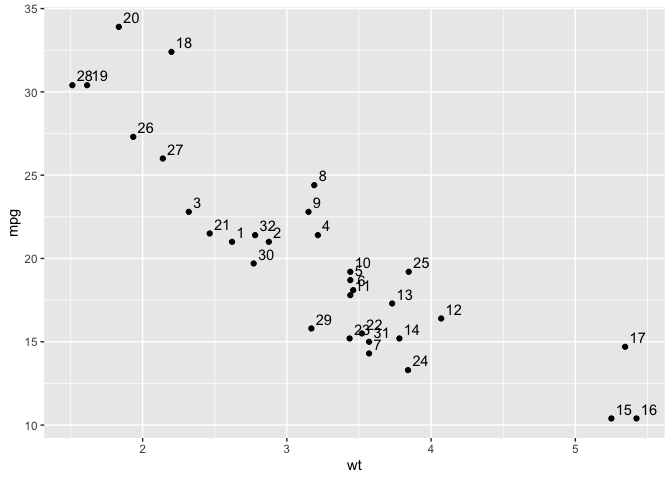
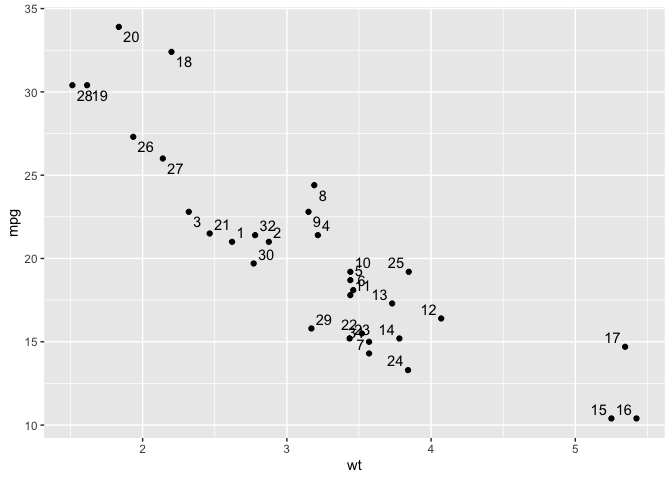
space objects exercise

diff --git a/README.md b/README.md
@@ -140,8 +140,8 @@ StatIndex <- ggplot2::ggproto("StatIndex",
 geom_index <- function(){
   
   layer("label", "index", position = "identity",
-          params = list(label.size = NA, fill = NA, hjust = 0,
-                        vjust = 0))
+          params = list(label.size = NA, fill = NA, hjust = "inward",
+                        vjust = "inward"))
   
 }
 ```
@@ -578,24 +578,158 @@ nhl_player_births <- readr::read_csv('https://raw.githubusercontent.com/rfordata
 
 set.seed(1245)
 nhl_player_births |> 
-  mutate(birth_date_2020 = birth_date %>% str_replace("....", "2000") %>% as_date()) |>
+  mutate(birth_date_2020 = birth_date %>% str_replace("....", "2000") %>% 
+           as_date()) |>
   mutate(first_last = paste(first_name, last_name)) |>
-  arrange(birth_date) |>
+  arrange(birth_date) %>% 
   ggplot() + 
   aes(x = birth_date_2020, 
       y = birth_year) +
-  geom_point(color = "lightgrey") + 
+  geom_point(color = "cadetblue", alpha = .25) + 
   # geom_index() +
   geom_labellink(which_index = 1,
                  label = "Jack Lviolette has the earliest birthday in the dataset: July 27, 1879" |> str_wrap(30),
                  label_direction = 60,
-                 prop_range = .3)
+                 prop_range = .3,
+                 color = "grey10") +
+  geom_labellink(which_index = nrow(nhl_player_births),
+                 label = "Connor Bedard has the most recent birthday in the dataset: July 17, 2005" |> str_wrap(25),
+                 prop_range = .2,
+                 label_direction = -100,
+                 color = "grey10")
 #> Warning in geom_labellink(which_index = 1, label = str_wrap("Jack Lviolette has
 #> the earliest birthday in the dataset: July 27, 1879", : Ignoring unknown
 #> parameters: `label`
+#> Warning in geom_labellink(which_index = nrow(nhl_player_births), label =
+#> str_wrap("Connor Bedard has the most recent birthday in the dataset: July 17,
+#> 2005", : Ignoring unknown parameters: `label`
 ```
 
 ![](README_files/figure-gfm/unnamed-chunk-12-1.png)<!-- -->
+
+``` r
+  
+  
+ggwipe::last_plot_wipe(index = 2) +  
+  ggpointdensity::geom_pointdensity(alpha = .5) + 
+  scale_color_viridis_c()
+```
+
+![](README_files/figure-gfm/unnamed-chunk-12-2.png)<!-- -->
+
+``` r
+outer_space_objects <- readr::read_csv('https://raw.githubusercontent.com/rfordatascience/tidytuesday/master/data/2024/2024-04-23/outer_space_objects.csv')
+#> Rows: 1175 Columns: 4
+#> ── Column specification ────────────────────────────────────────────────────────
+#> Delimiter: ","
+#> chr (2): Entity, Code
+#> dbl (2): Year, num_objects
+#> 
+#> ℹ Use `spec()` to retrieve the full column specification for this data.
+#> ℹ Specify the column types or set `show_col_types = FALSE` to quiet this message.
+
+outer_space_objects %>% 
+  count(Entity, wt = num_objects) %>% 
+  arrange(-n) %>% 
+  pull(Entity) %>% 
+  .[2:7] ->
+top_appearances  # more than 150
+```
+
+``` r
+russia1957lab <- "The first observation in the 'Outerspace objects dataset are two Russian objects in 1957"
+us2023lab <- "The highest recorded number of objects in a year for an entity was 2166 objects from the US in 2023"
+
+outer_space_objects |>
+  arrange(Year) %>% 
+  mutate(Entity_Year = paste(Entity, Year, sep = "-")) %>% 
+  filter(Entity != "World") |> #slice(1107)
+  mutate(entities = ifelse(Entity %in% top_appearances, 
+                           Entity, "other")) |>
+ggplot() + 
+  aes(Year, num_objects, id = Entity_Year) + 
+  geom_point(aes(color = entities)) + 
+  geom_line(aes(group = Entity), linewidth = .05) +
+  # geom_index() +
+  geom_labellink(which_id = "Russia-1957",
+                 label = russia1957lab |> str_wrap(20),
+                 label_direction = 170) +
+  geom_labellink(which_id = "United States-2023",
+                 label = us2023lab |> str_wrap(20),
+                 prop_range = .15,
+                 label_direction = -45) + 
+  geom_labellink(which_id = "China-2023",
+                 label = "China",
+                 label_direction = -15,
+                 prop_range = .1) + 
+  geom_labellink(which_id = "France-2023",
+                 label = "France",
+                 label_direction = -15,
+                 prop_range = .1) + 
+  geom_labellink(which_id = "Japan-2023",
+                 label = "Japan",
+                 label_direction = 5,
+                 prop_range = .1) +
+    geom_labellink(which_id = "United Kingdom-2023",
+                 label = "United\nKingdom",
+                 label_direction = 10,
+                 prop_range = .1) +
+  aes(alpha = entities != "other") + 
+  scale_y_log10() + 
+  labs(title = "The number of objects in Space by entity ") + 
+  annotate(alpha = 0, x  = c(1925, 2060), y = 1, geom = GeomPoint) + 
+  theme(panel.background = element_rect(fill = "snow")) + 
+  theme(plot.background = element_rect(fill = "snow")) + 
+  theme(axis.ticks = element_blank()) + 
+  labs(y = NULL, x = NULL) + 
+  theme() + 
+  # geom_index() + 
+  guides(color = "none") +
+  guides(alpha = "none") + 
+  NULL
+#> Warning in geom_labellink(which_id = "Russia-1957", label =
+#> str_wrap(russia1957lab, : Ignoring unknown parameters: `label`
+#> Warning in geom_labellink(which_id = "United States-2023", label =
+#> str_wrap(us2023lab, : Ignoring unknown parameters: `label`
+#> Warning in geom_labellink(which_id = "China-2023", label = "China",
+#> label_direction = -15, : Ignoring unknown parameters: `label`
+#> Warning in geom_labellink(which_id = "France-2023", label = "France",
+#> label_direction = -15, : Ignoring unknown parameters: `label`
+#> Warning in geom_labellink(which_id = "Japan-2023", label = "Japan",
+#> label_direction = 5, : Ignoring unknown parameters: `label`
+#> Warning in geom_labellink(which_id = "United Kingdom-2023", label =
+#> "United\nKingdom", : Ignoring unknown parameters: `label`
+#> Warning: Using alpha for a discrete variable is not advised.
+```
+
+![](README_files/figure-gfm/unnamed-chunk-14-1.png)<!-- -->
+
+``` r
+  
+
+ggwipe::last_plot_wipe() +
+  facet_wrap(~entities) + 
+  geom_point() + 
+  geom_line() + 
+  aes(color = entities)
+#> Warning: Using alpha for a discrete variable is not advised.
+#> `geom_line()`: Each group consists of only one observation.
+#> ℹ Do you need to adjust the group aesthetic?
+#> `geom_line()`: Each group consists of only one observation.
+#> ℹ Do you need to adjust the group aesthetic?
+#> `geom_line()`: Each group consists of only one observation.
+#> ℹ Do you need to adjust the group aesthetic?
+#> `geom_line()`: Each group consists of only one observation.
+#> ℹ Do you need to adjust the group aesthetic?
+#> `geom_line()`: Each group consists of only one observation.
+#> ℹ Do you need to adjust the group aesthetic?
+#> `geom_line()`: Each group consists of only one observation.
+#> ℹ Do you need to adjust the group aesthetic?
+#> `geom_line()`: Each group consists of only one observation.
+#> ℹ Do you need to adjust the group aesthetic?
+```
+
+![](README_files/figure-gfm/unnamed-chunk-14-2.png)<!-- -->
 
 ``` r
 StatSum$compute_panel
@@ -638,7 +772,7 @@ nhl_player_births |>
 #> generated.
 ```
 
-![](README_files/figure-gfm/unnamed-chunk-13-1.png)<!-- -->
+![](README_files/figure-gfm/unnamed-chunk-15-1.png)<!-- -->
 
 # Part II. Packaging and documentation 🚧 ✅
 
@@ -690,7 +824,7 @@ gapminder::gapminder |>
 #> -65, : Ignoring unknown parameters: `label`
 ```
 
-![](README_files/figure-gfm/unnamed-chunk-15-1.png)<!-- -->
+![](README_files/figure-gfm/unnamed-chunk-17-1.png)<!-- -->
 
 ``` r
 
@@ -698,7 +832,7 @@ last_plot() +
   scale_x_log10()
 ```
 
-![](README_files/figure-gfm/unnamed-chunk-15-2.png)<!-- -->
+![](README_files/figure-gfm/unnamed-chunk-17-2.png)<!-- -->
 
 ## Phase 3: Settling and testing 🚧 ✅
 
@@ -796,10 +930,15 @@ fs::dir_tree(recurse = T)
 #> │       ├── unnamed-chunk-11-1.png
 #> │       ├── unnamed-chunk-11-2.png
 #> │       ├── unnamed-chunk-12-1.png
+#> │       ├── unnamed-chunk-12-2.png
 #> │       ├── unnamed-chunk-13-1.png
 #> │       ├── unnamed-chunk-13-2.png
+#> │       ├── unnamed-chunk-14-1.png
+#> │       ├── unnamed-chunk-14-2.png
 #> │       ├── unnamed-chunk-15-1.png
 #> │       ├── unnamed-chunk-15-2.png
+#> │       ├── unnamed-chunk-17-1.png
+#> │       ├── unnamed-chunk-17-2.png
 #> │       ├── unnamed-chunk-5-1.png
 #> │       ├── unnamed-chunk-5-2.png
 #> │       ├── unnamed-chunk-7-1.png
